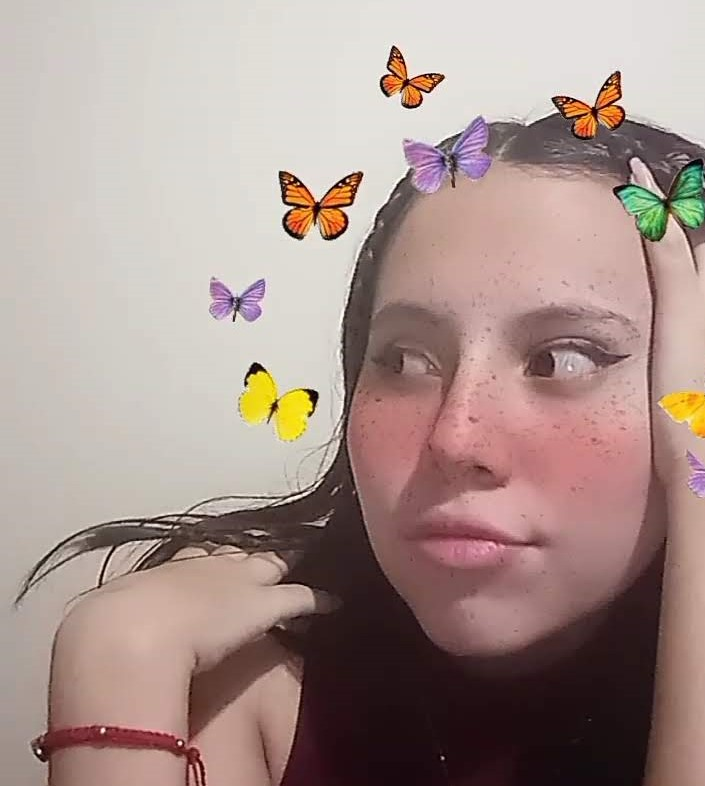
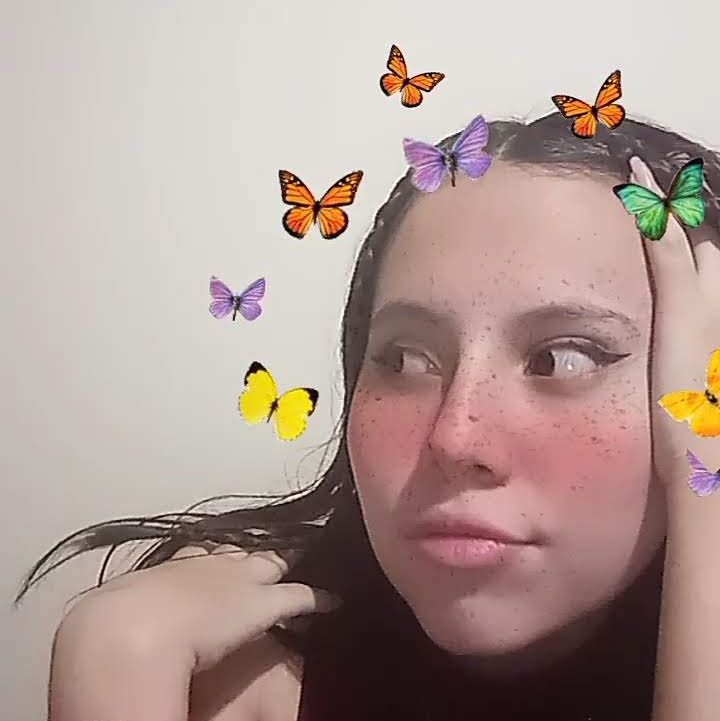
Coloque el nombre centrado, organice la imagen de manera redonda y con sombras

diff --git a/Index.html b/Index.html
@@ -5,15 +5,26 @@
     <meta http-equiv="X-UA-Compatible" content="IE=edge">
     <meta name="viewport" content="width=device-width, initial-scale=1.0">
     <link rel="stylesheet" type="text/css" href="css/style.css">
-    <title>Document</title>
+    <title>Majo Ospina</title>
 </head>
 <body>
     <header>
         <h1>Maria José Ospina Hurtado</h1>
+ 
     </header>
-    <img src="/images/Yo.jpg" alt="Foto del Aprendiz">
-    <section>
-        <p>Nombre: Maria Jose Ospina Hurtado<br> Fecha de Nacimiento: 07-06-2004 <br> Profesión: Ingeniero de Software <br> Ocupacion: Aprendiz</p>
+    <!--<section class="centrar">
+          
+    </section>-->
+    <section class="Datos">
+        <div class="sombra">
+            <img id="FotoA" src="/images/Yo.jpg" alt="Foto del Aprendiz">
+        </div>
+        <p>
+            Nombre: Maria Jose Ospina Hurtado<br> 
+            Fecha de Nacimiento: 07-06-2004 <br> 
+            Profesión: Tecnologa en Analisis y Sistemas de información <br> 
+            Ocupacion: Aprendiz
+        </p>
     </section>
     <footer>
         <img src="/images/Facebook.png" alt="Icono de Facebook">

diff --git a/css/style.css b/css/style.css
@@ -1,0 +1,46 @@
+*{ padding: 0px; margin: 0px;}
+
+
+header h1{
+    display: flex;
+    align-items: center;
+    justify-content: center;
+    height: 20vh;
+    /*font-size: 250%;*/
+}
+
+#FotoA{
+    width: 100%;
+    border-radius: 100%;
+    position: relative;
+    z-index: 1;
+}
+
+
+
+.sombra {
+    width: 20%;
+    height: 20%;
+    position: relative;
+
+ }
+
+.sombra::after{
+    position: absolute;
+    top:0px;
+    left: 0px;
+    content:'';
+    background-color:blueviolet;
+    width: 100%;
+    height: 100%;
+    filter: blur(20px);
+    border-radius: 100%;
+    
+}
+.Datos{
+    background-color:#3e6edd;
+    color: white;
+}
+
+
+
